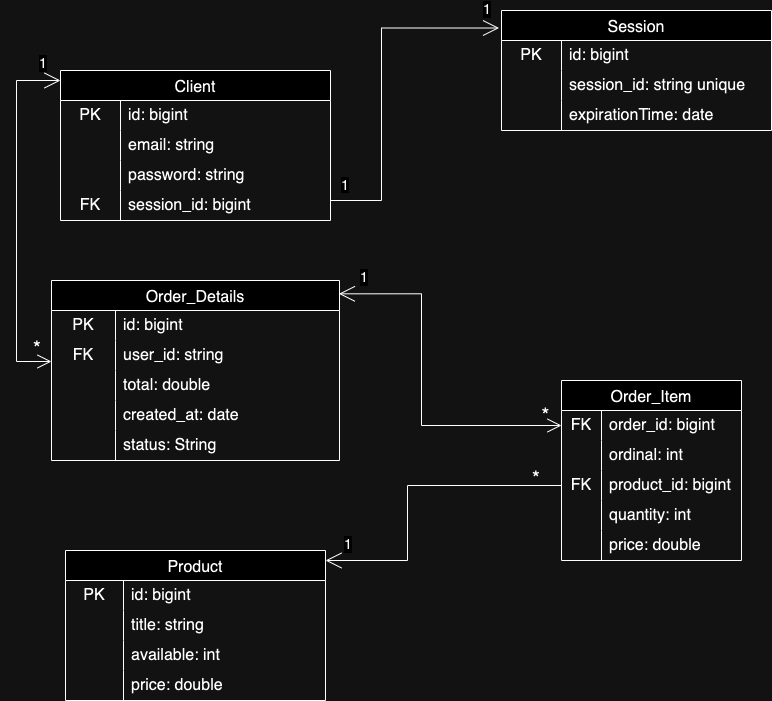
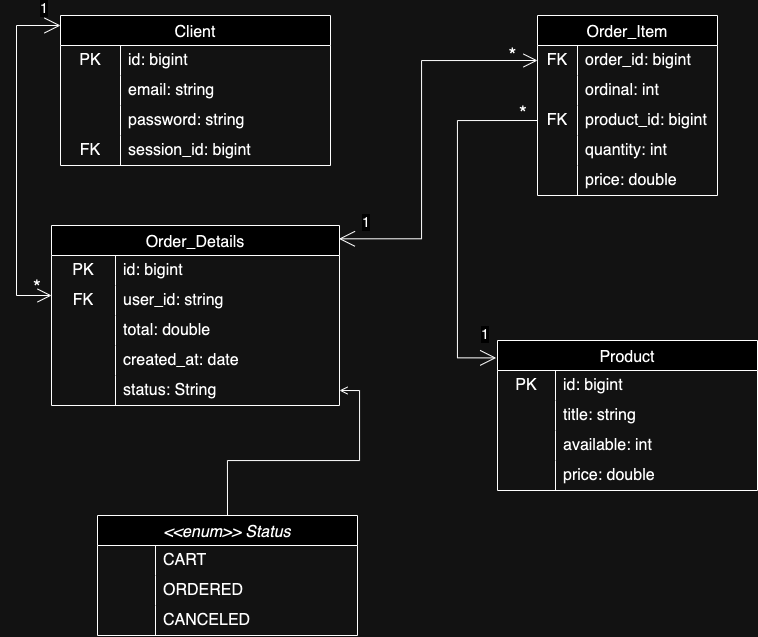
delete session entity

diff --git a/src/main/java/com/griddynamics/shopapi/bootstrap/PopulatingDb.java b/src/main/java/com/griddynamics/shopapi/bootstrap/PopulatingDb.java
@@ -11,17 +11,14 @@ public class PopulatingDb implements CommandLineRunner {
 
   private final OrderRepository orderRepository;
   private final ProductRepository productRepository;
-  private final SessionRepository sessionRepository;
   private final ClientRepository clientRepository;
 
   public PopulatingDb(
       OrderRepository orderRepository,
       ProductRepository productRepository,
-      SessionRepository sessionRepository,
       ClientRepository clientRepository) {
     this.orderRepository = orderRepository;
     this.productRepository = productRepository;
-    this.sessionRepository = sessionRepository;
     this.clientRepository = clientRepository;
   }
 
@@ -54,12 +51,7 @@ public class PopulatingDb implements CommandLineRunner {
     client2.setEmail("user2@onet.pl");
     client2.setPassword("12345");
 
-    Session session1 = new Session();
-    session1.setSessionId("sadlasjdkla");
-    session1.setExpirationTime(LocalDateTime.of(2024, 12, 12, 0, 0));
-    client1.setSession(session1);
 
-    sessionRepository.save(session1);
     clientRepository.save(client1);
     clientRepository.save(client2);
 

diff --git a/src/main/java/com/griddynamics/shopapi/model/OrderItem.java b/src/main/java/com/griddynamics/shopapi/model/OrderItem.java
@@ -19,7 +19,7 @@ public class OrderItem {
     @AttributeOverride(name = "productId", column = @Column(name = "product_id")),
     @AttributeOverride(name = "ordinal", column = @Column(name = "ordinal"))
   })
-  private CartItemPrimaryKey id = new CartItemPrimaryKey();
+  private OrderItemPrimaryKey id = new OrderItemPrimaryKey();
 
   @Column(nullable = false)
   private int quantity;

diff --git a/src/main/java/com/griddynamics/shopapi/model/Client.java b/src/main/java/com/griddynamics/shopapi/model/Client.java
@@ -27,9 +27,6 @@ public class Client {
   @Column(nullable = false)
   private String password;
 
-  @OneToOne(fetch = FetchType.LAZY)
-  @ToString.Exclude
-  private Session session;
 
   @OneToMany(mappedBy = "client", fetch = FetchType.LAZY)
   private Set<OrderDetails> orders = new HashSet<>();

diff --git a/src/main/java/com/griddynamics/shopapi/model/OrderItemPrimaryKey.java b/src/main/java/com/griddynamics/shopapi/model/OrderItemPrimaryKey.java
@@ -9,7 +9,7 @@ import lombok.*;
 @NoArgsConstructor
 @ToString
 @EqualsAndHashCode
-public class CartItemPrimaryKey {
+public class OrderItemPrimaryKey {
 
   private Long productId;
   private int ordinal;
